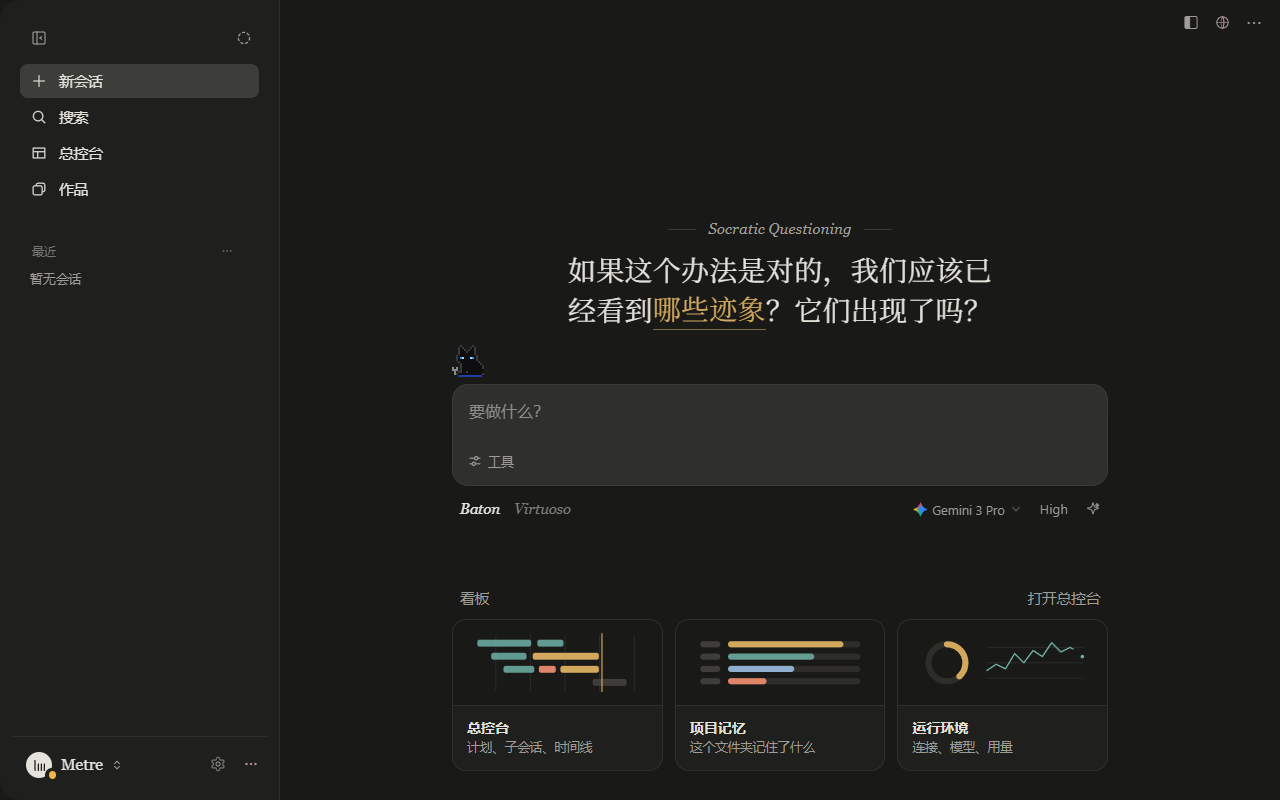
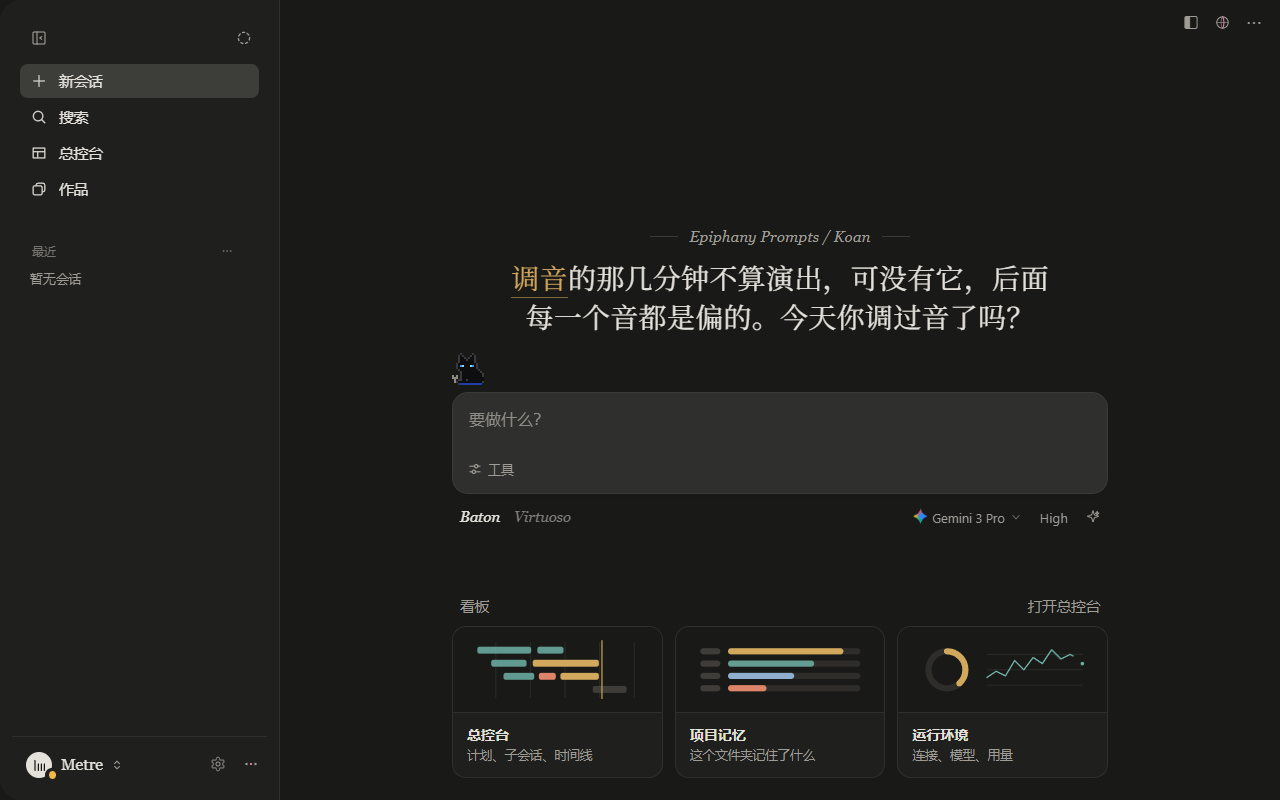
metre mode: first message from the Metre home page now sends (the home script treated Metre as chat and waited 25s for an agent:main session); home composer pinned at 48% of window height on any size; board grid hole at 1000 wide filled

diff --git a/ui/injections/laolao-metre-skin.css b/ui/injections/laolao-metre-skin.css
@@ -1189,3 +1189,13 @@ html[data-laolao-mode="metre"]:not(#_m1):not(#_m2) .agent-chat__input .pinkie-ba
 html[data-laolao-mode="metre"]:not(#_m1):not(#_m2) .agent-chat__input .pinkie-baton__seg:not([aria-checked="true"]) { color: var(--metre-muted) !important; opacity: 0.75 !important; }
 html[data-laolao-mode="metre"]:not(#_m1):not(#_m2) .agent-chat__input :is(.chat-controls__inline-select-label, .pinkie-external-tier) { font-size: 14px !important; }
 html[data-laolao-mode="metre"]:not(#_m1):not(#_m2)[data-laolao-startup-home="1"] .agent-chat__input .laolao-context-viewer { display: none !important; }
+/* 首页比例 · 续：上面是「从下往上排」，窗口一高（1000 以上）输入框就跟着沉到 57%。
+ * 改成输入框上沿固定在窗口高度的 48%（截图 49.7%）；窗口矮到放不下卡片时才让卡片贴底、输入框往上让。
+ * 386 = 输入框那一块 160 + 14 + 看板 30 + 182；窗口不到 640 高时看板不显示，只剩 174。窄窗口（卡片变一列）仍按从下往上排。 */
+@media (min-width: 761px) {
+html[data-laolao-mode="metre"]:not(#_m1):not(#_m2) .laolao-startup-home { flex: 0 1 auto !important; height: min(calc(48vh - 44px), calc(100vh - 446px)) !important; }
+html[data-laolao-mode="metre"]:not(#_m1):not(#_m2) .laolao-startup-home__recent { flex: 1 1 16px !important; }
+}
+@media (min-width: 761px) and (max-height: 640px) {
+html[data-laolao-mode="metre"]:not(#_m1):not(#_m2) .laolao-startup-home { height: min(calc(48vh - 44px), calc(100vh - 234px)) !important; }
+}

diff --git a/ui/injections/laolao-startup-home.js b/ui/injections/laolao-startup-home.js
@@ -81,12 +81,15 @@
   const random = window.__laolaoStartupHomeRandom || Math.random;
   const greetingCache = new Map();
   const agentFor = mode => mode === 'chat' ? 'main' : mode;
+  // Metre 没有自己的问候语（首页用引导语），但它是一个真的模式：会话在 agent:metre: 下面。
+  // 以前这里只认有问候语的模式，Metre 被当成唠嗑，首页发第一句话时一直等一个 agent:main: 的会话，25 秒后失败。
+  const knownMode = value => Object.hasOwn(lines, value) || value === 'metre';
   const mode = () => {
     const selected = root.getAttribute('data-laolao-mode');
-    if (Object.hasOwn(lines, selected)) return selected;
+    if (knownMode(selected)) return selected;
     const session = new URL(window.location.href).searchParams.get('session') || '';
     const agent = /^agent:([^:]+):/.exec(session)?.[1];
-    return agent === 'main' ? 'chat' : Object.hasOwn(lines, agent) ? agent : 'chat';
+    return agent === 'main' ? 'chat' : knownMode(agent) ? agent : 'chat';
   };
   const sessionKey = () => new URL(window.location.href).searchParams.get('session') || '';
   const notify = message => {

diff --git a/ui/injections/laolao-metre-board.css b/ui/injections/laolao-metre-board.css
@@ -339,7 +339,7 @@ html[data-laolao-mode="metre"][data-theme="dark"] {
 .pk-metre-quick__text { padding: 0 14px; font: 400 12.5px/1.4 var(--metre-sans, system-ui, sans-serif); color: var(--metre-muted, #73726C); white-space: nowrap; overflow: hidden; text-overflow: ellipsis; }
 
 @media (max-width: 1100px) {
-  .pk-metre-board__grid { grid-template-columns: repeat(2, minmax(0, 1fr)); }
+  .pk-metre-board__grid { grid-template-columns: repeat(2, minmax(0, 1fr)); grid-auto-flow: row dense; }
 }
 @media (max-width: 760px) {
   .pk-metre-board__head { flex-direction: column; align-items: flex-start; gap: 12px; padding-top: 20px; }

diff --git a/briefs/metre-mode-1113/PROGRESS.md b/briefs/metre-mode-1113/PROGRESS.md
@@ -315,3 +315,12 @@
 - **测试**：`metre-skin-cat` 14、`mode-controls` 4、`composer-tray-and-home-draft` 3、`run-status-ui` 12、`metre-dispatch` 15、`brand-ui` 6，全过。
 - **没做 / 没验证**：没在真 App 里看；820 宽和 640 以下高度的首页在这次改动后没重拍；上一节「没做」的几项照旧。上一节 A4-31（模式名不显示）因为整块不显示了，现在只对其他模式有意义。
 - 用户还没看这一版。
+
+### 批 4 第五版 · 补查（Windows，Fable，11-15；用户看了首页比例后说「可以，继续」）
+
+- **修了一个真毛病：Metre 首页发不出第一句话。** `laolao-startup-home.js` 的 `mode()` 只认有问候语的模式，Metre 被当成唠嗑，发送时一直等一个 `agent:main:` 的会话，25 秒后失败，新会话建了但字还留在输入框里。假网关里量到：改前 25146ms 后仍在首页、输入框里的字没动；改后 1.7 秒进入对话、输入框清空。改法：`mode()` 认识 metre（没有问候语不要紧，首页用引导语）。项目模式首页发送照常（0.5 秒）。**这个毛病从批 0 前端就在，之前没人在首页真发过一句。**
+- **首页比例在大窗口不对**：上一节是从下往上排，1440×1000 时输入框沉到 57%。改成输入框上沿固定在窗口高度的 48%，窗口矮到放不下卡片时才让位。看图：1280×800 → 49%，1440×1000 → 49%，1280×620（卡片不显示）居中偏上，820×700（卡片一列以外仍三列）正常。
+- **总控台 1000 宽**：两列时「计划」右边空半行（后面跟着占两列的「子会话」）。网格加了 `dense`，「待你处理」补上来。
+- **对话页多行输入**：四行字时输入框长到 125 高，工具图标留在左下、发送键在右下，字不压图标。首页四行字时框长到 161，正常。
+- **测试**：`metre-skin-cat` 14、`mode-controls` 4、`composer-tray-and-home-draft` 3、`run-status-ui` 12、`metre-dispatch` 15、`metre-inject` 7、`brand-ui` 6、`session-cross-mode-ui` 9、`workbench-startup` 1，全过。`ref/v5-*.png` 和两张对比图重拍。
+- **仍没做**：真网关隔离副本里跑一轮、真 App（WebView2）里看、A4-2 逐像素对比、A4-7 CPU。隔离副本 `iso-metre` 还在 C 盘（C 盘只剩 12G，读它的目录要两分钟以上），插件是批 M 之前拷的，要先 `setup.py sync`；建议下次在 F 盘重建再跑。发送时无头 Edge 报了一条 THREE.WebGLProgram 的着色器警告（X4000），是发送动效的，不是报错。
